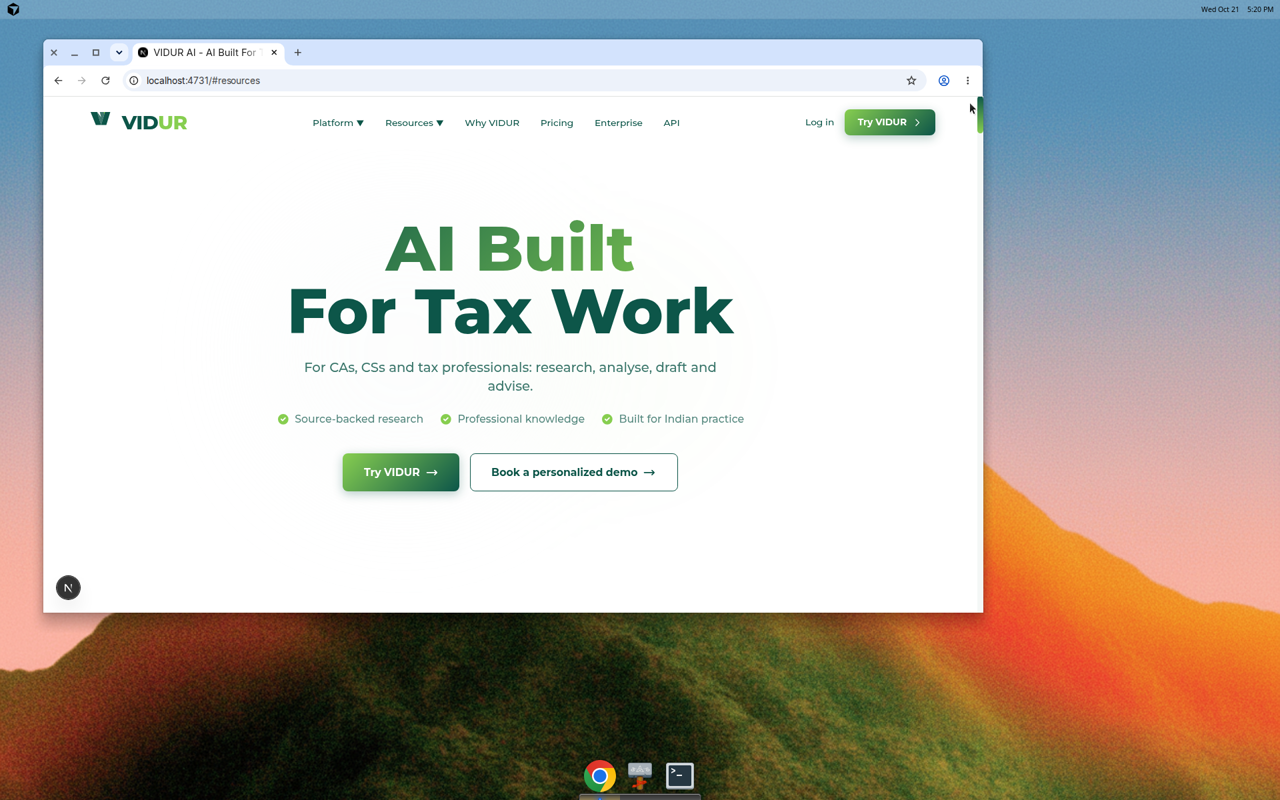
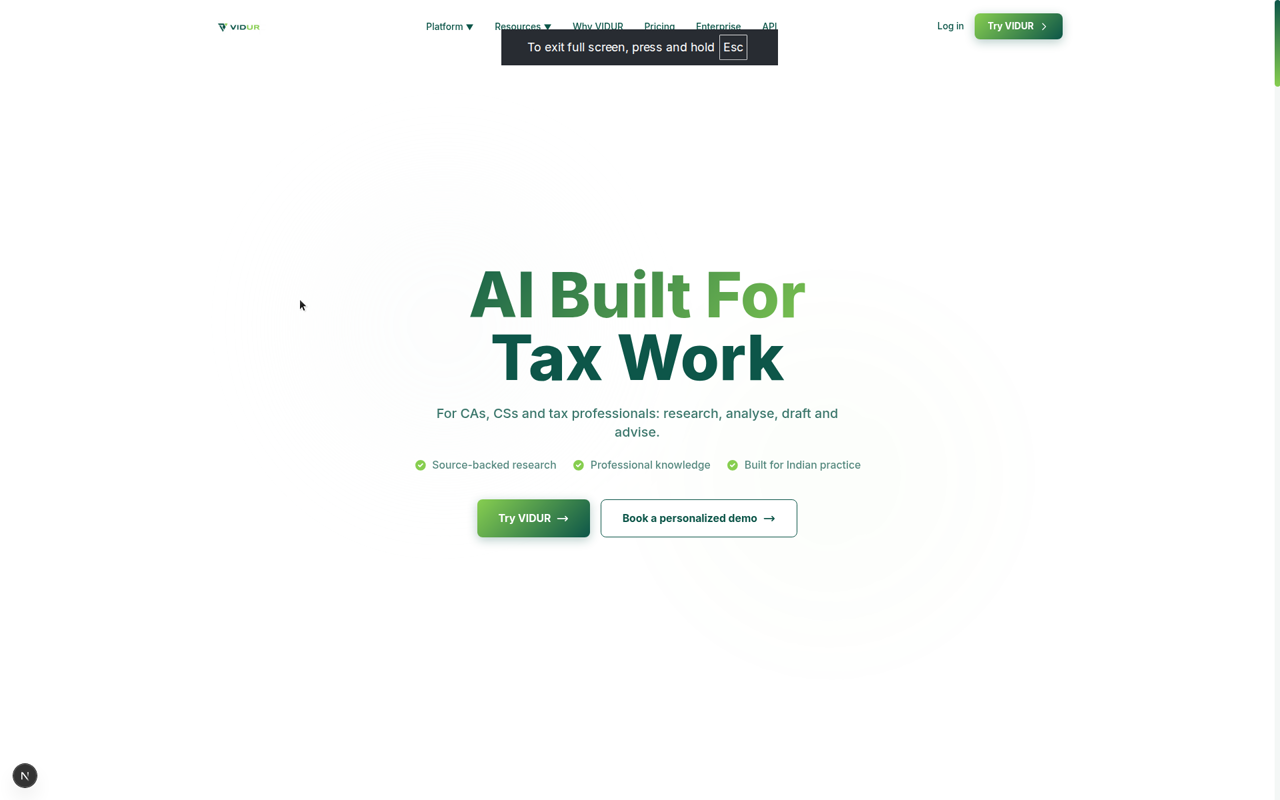
feat: update hero section and fix map video
- Make VIDUR logo bigger (h-8 to h-10 in header)
- Add background image to hero section
- Update button text from 'Book a personalized demo' to 'Book a free demo'
- Center align all buttons in hero section
- Move trust points below buttons
- Fix map video with native HTML5 video element
- Add iframe fallback for map video
- Update next.config to allow external images
- Match reference design with background image overlay

diff --git a/components/Hero.tsx b/components/Hero.tsx
@@ -1,40 +1,27 @@
 'use client';
 
 import { motion } from 'framer-motion';
+import Image from 'next/image';
 
 export default function Hero() {
   return (
-    <section className="relative min-h-screen flex items-center justify-center overflow-hidden bg-white">
-      {/* Subtle animated background pattern */}
-      <div className="absolute inset-0 w-full h-full overflow-hidden opacity-20">
-        <motion.div
-          animate={{
-            scale: [1, 1.2, 1],
-            rotate: [0, 90, 0],
-          }}
-          transition={{
-            duration: 20,
-            repeat: Infinity,
-            ease: "linear"
-          }}
-          className="absolute top-1/4 left-1/4 w-96 h-96 bg-soft-neutral rounded-full filter blur-3xl"
+    <section className="relative min-h-screen flex items-center justify-center overflow-hidden">
+      {/* Background Image */}
+      <div className="absolute inset-0 z-0">
+        <Image
+          src="/hero-bg.jpg"
+          alt="VIDUR Hero Background"
+          fill
+          className="object-cover"
+          priority
+          quality={100}
         />
-        <motion.div
-          animate={{
-            scale: [1, 1.3, 1],
-            rotate: [0, -90, 0],
-          }}
-          transition={{
-            duration: 25,
-            repeat: Infinity,
-            ease: "linear"
-          }}
-          className="absolute bottom-1/4 right-1/4 w-96 h-96 bg-highlight-green/10 rounded-full filter blur-3xl"
-        />
+        {/* Overlay for better text readability */}
+        <div className="absolute inset-0 bg-white/40"></div>
       </div>
 
       {/* Content */}
-      <div className="relative z-20 max-w-[1360px] mx-auto px-6 lg:px-8 py-32 text-center">
+      <div className="relative z-20 max-w-[1360px] mx-auto px-6 lg:px-8 py-32 text-center w-full">
         <motion.div
           initial={{ opacity: 0, y: 30 }}
           animate={{ opacity: 1, y: 0 }}
@@ -48,7 +35,7 @@ export default function Hero() {
             animate={{ opacity: 1, y: 0 }}
             transition={{ duration: 0.8, delay: 0.2 }}
           >
-            <span className="gradient-text block">AI Built For</span>
+            <span className="block">AI Built For</span>
             <span className="block">Tax Work</span>
           </motion.h1>
 
@@ -59,35 +46,17 @@ export default function Hero() {
             animate={{ opacity: 1 }}
             transition={{ duration: 0.8, delay: 0.4 }}
           >
-            <p className="text-lg md:text-xl text-deep-green/80 font-medium max-w-2xl mx-auto">
+            <p className="text-lg md:text-xl text-deep-green/90 font-medium max-w-2xl mx-auto">
               For CAs, CSs and tax professionals: research, analyse, draft and advise.
             </p>
-            
-            {/* Trust Points */}
-            <div className="flex flex-wrap gap-4 md:gap-6 justify-center text-sm md:text-base text-deep-green/70">
-              {['Source-backed research', 'Professional knowledge', 'Built for Indian practice'].map((point, idx) => (
-                <motion.div 
-                  key={idx}
-                  className="flex items-center gap-2"
-                  initial={{ opacity: 0, x: -20 }}
-                  animate={{ opacity: 1, x: 0 }}
-                  transition={{ duration: 0.5, delay: 0.6 + idx * 0.1 }}
-                >
-                  <svg className="w-5 h-5 text-highlight-green" fill="currentColor" viewBox="0 0 20 20">
-                    <path fillRule="evenodd" d="M10 18a8 8 0 100-16 8 8 0 000 16zm3.707-9.293a1 1 0 00-1.414-1.414L9 10.586 7.707 9.293a1 1 0 00-1.414 1.414l2 2a1 1 0 001.414 0l4-4z" clipRule="evenodd" />
-                  </svg>
-                  <span className="font-medium">{point}</span>
-                </motion.div>
-              ))}
-            </div>
           </motion.div>
 
-          {/* CTAs with Gradient Buttons */}
+          {/* CTAs with Gradient Buttons - Centered */}
           <motion.div 
-            className="flex flex-col sm:flex-row gap-4 justify-center"
+            className="flex flex-col sm:flex-row gap-4 justify-center items-center"
             initial={{ opacity: 0, y: 20 }}
             animate={{ opacity: 1, y: 0 }}
-            transition={{ duration: 0.8, delay: 0.8 }}
+            transition={{ duration: 0.8, delay: 0.6 }}
           >
             <button className="btn-gradient-primary group inline-flex items-center justify-center gap-2">
               Try VIDUR
@@ -96,11 +65,34 @@ export default function Hero() {
               </svg>
             </button>
             <button className="btn-gradient-secondary group inline-flex items-center justify-center gap-2">
-              Book a personalized demo
+              Book a free demo
               <svg className="w-5 h-5 group-hover:translate-x-1 transition-transform" fill="none" stroke="currentColor" viewBox="0 0 24 24">
                 <path strokeLinecap="round" strokeLinejoin="round" strokeWidth={2} d="M17 8l4 4m0 0l-4 4m4-4H3" />
               </svg>
             </button>
+          </motion.div>
+
+          {/* Trust Points */}
+          <motion.div 
+            className="flex flex-wrap gap-4 md:gap-6 justify-center text-sm md:text-base text-deep-green/80 mt-8"
+            initial={{ opacity: 0 }}
+            animate={{ opacity: 1 }}
+            transition={{ duration: 0.8, delay: 0.8 }}
+          >
+            {['Source-backed research', 'Professional knowledge', 'Built for Indian practice'].map((point, idx) => (
+              <motion.div 
+                key={idx}
+                className="flex items-center gap-2"
+                initial={{ opacity: 0, x: -20 }}
+                animate={{ opacity: 1, x: 0 }}
+                transition={{ duration: 0.5, delay: 0.8 + idx * 0.1 }}
+              >
+                <svg className="w-5 h-5 text-deep-green" fill="currentColor" viewBox="0 0 20 20">
+                  <path fillRule="evenodd" d="M10 18a8 8 0 100-16 8 8 0 000 16zm3.707-9.293a1 1 0 00-1.414-1.414L9 10.586 7.707 9.293a1 1 0 00-1.414 1.414l2 2a1 1 0 001.414 0l4-4z" clipRule="evenodd" />
+                </svg>
+                <span className="font-medium">{point}</span>
+              </motion.div>
+            ))}
           </motion.div>
         </motion.div>
       </div>

diff --git a/components/GeographicCoverage.tsx b/components/GeographicCoverage.tsx
@@ -78,15 +78,27 @@ export default function GeographicCoverage() {
             transition={{ duration: 0.6 }}
             className="relative"
           >
-            <div className="relative w-full aspect-square max-w-lg mx-auto bg-white">
-              <iframe
-                src="https://drive.google.com/file/d/1O8oLdMOQG7I39dvZWI9CZpIDIrtoHhc7/preview?autoplay=1&mute=1&loop=1"
-                className="w-full h-full rounded-2xl"
-                allow="autoplay; encrypted-media"
-                style={{ border: 'none', background: 'transparent', pointerEvents: 'none' }}
-              />
-              {/* Transparent overlay to prevent clicking */}
-              <div className="absolute inset-0 pointer-events-none" style={{ zIndex: 10 }}></div>
+            <div className="relative w-full aspect-square max-w-lg mx-auto bg-white rounded-2xl overflow-hidden shadow-lg">
+              <video
+                className="w-full h-full object-cover rounded-2xl"
+                autoPlay
+                loop
+                muted
+                playsInline
+                style={{ pointerEvents: 'none' }}
+              >
+                <source src="https://drive.google.com/uc?export=download&id=1O8oLdMOQG7I39dvZWI9CZpIDIrtoHhc7" type="video/mp4" />
+                Your browser does not support the video tag.
+              </video>
+              {/* Fallback with iframe if video doesn't work */}
+              <div className="absolute inset-0 pointer-events-none">
+                <iframe
+                  src="https://drive.google.com/file/d/1O8oLdMOQG7I39dvZWI9CZpIDIrtoHhc7/preview?autoplay=1&mute=1&loop=1"
+                  className="w-full h-full"
+                  allow="autoplay; encrypted-media"
+                  style={{ border: 'none', background: 'transparent' }}
+                />
+              </div>
               <div className="absolute bottom-4 left-1/2 transform -translate-x-1/2 text-center" style={{ zIndex: 20 }}>
                 <p className="text-sm text-deep-green/60">
                   <span className="font-medium">From</span> <span className="font-semibold">Kashmir</span> <span className="font-medium">To</span> <span className="font-semibold">Kanyakumari</span>

diff --git a/next.config.js b/next.config.js
@@ -2,6 +2,15 @@
 const nextConfig = {
   // Allow dev server resources from both localhost and 127.0.0.1
   allowedDevOrigins: ['127.0.0.1', 'localhost'],
+  images: {
+    unoptimized: true,
+    remotePatterns: [
+      {
+        protocol: 'https',
+        hostname: 'drive.google.com',
+      },
+    ],
+  },
 };
 
 export default nextConfig;

diff --git a/components/Header.tsx b/components/Header.tsx
@@ -73,7 +73,7 @@ export default function Header() {
               <img 
                 src="/vidur-logo.png" 
                 alt="VIDUR" 
-                className="h-8 w-auto"
+                className="h-10 w-auto"
               />
             </a>
           </div>
